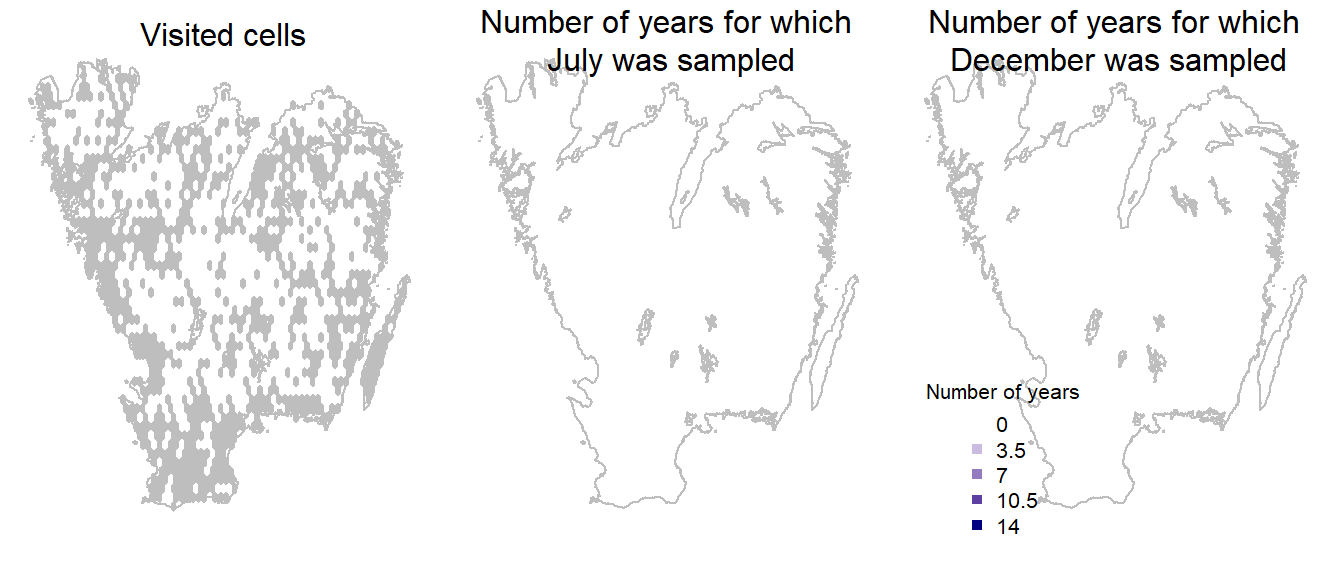
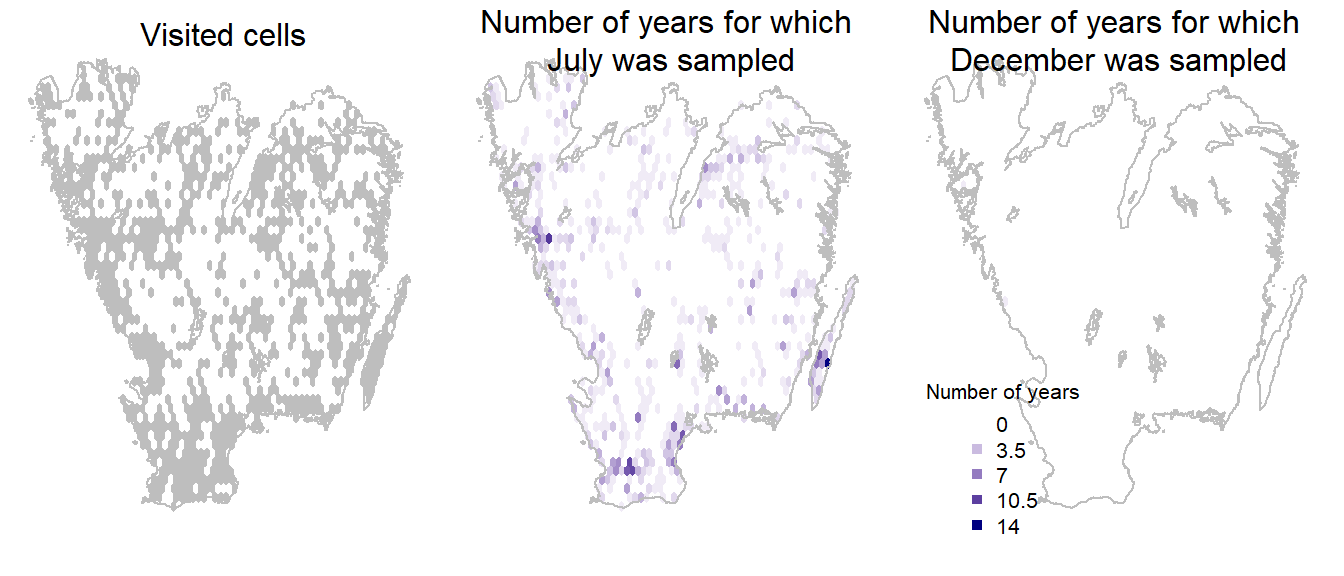
new page

diff --git a/docs/articles/BIRDS.html b/docs/articles/BIRDS.html
@@ -104,7 +104,7 @@
       <h1>Introduction to BIRDS</h1>
                         <h4 class="author">Alejandro Ruete and Debora Arlt</h4>
             
-            <h4 class="date">2019-12-13</h4>
+            <h4 class="date">2019-12-14</h4>
       
       <small class="dont-index">Source: <a href="https://github.com/greensway/BIRDS/blob/master/vignettes/BIRDS.Rmd"><code>vignettes/BIRDS.Rmd</code></a></small>
       <div class="hidden name"><code>BIRDS.Rmd</code></div>
@@ -138,40 +138,41 @@
 <p>We use as an example a data set consisting of 10k species observations of bumblebees (i.e. <em>Bombus</em> spp.) in Götaland (the southern part of Sweden) during 2000-2018. The data set <code>bombusObs</code> is part of this package and its metadata can be found in the data set help page <code><a href="../reference/bombusObs.html">?bombusObs</a></code>.</p>
 <p>You can easily create a grid over a sample area (i.e. <code>gotaland</code>), organize and summarize the data, and export the variables you want to plot:</p>
 <div class="sourceCode" id="cb2"><pre class="sourceCode r"><code class="sourceCode r"><span id="cb2-1"><a href="#cb2-1"></a><span class="kw"><a href="https://rdrr.io/r/base/library.html">library</a></span>(BIRDS)</span>
-<span id="cb2-2"><a href="#cb2-2"></a><span class="co"># Create a grid for your sample area that will be used to summarise the data:</span></span>
-<span id="cb2-3"><a href="#cb2-3"></a>grid &lt;-<span class="st"> </span><span class="kw"><a href="../reference/makeGrid.html">makeGrid</a></span>(gotaland, <span class="dt">gridSize =</span> <span class="dv">10</span>)</span>
-<span id="cb2-4"><a href="#cb2-4"></a><span class="co"># The grid can be easily created in different ways. </span></span>
-<span id="cb2-5"><a href="#cb2-5"></a></span>
-<span id="cb2-6"><a href="#cb2-6"></a><span class="co"># Import the species observation data:</span></span>
-<span id="cb2-7"><a href="#cb2-7"></a>PBD&lt;-bombusObs</span>
-<span id="cb2-8"><a href="#cb2-8"></a><span class="co"># alternatively, you could load a previously downloaded .CSV file </span></span>
-<span id="cb2-9"><a href="#cb2-9"></a><span class="co"># PBD &lt;- read.csv(file="path/to/your/file.csv)</span></span>
-<span id="cb2-10"><a href="#cb2-10"></a></span>
-<span id="cb2-11"><a href="#cb2-11"></a><span class="co"># Convert the data from an observation-based to a visit-based format, adding a </span></span>
-<span id="cb2-12"><a href="#cb2-12"></a><span class="co"># unique identifier for each visit:</span></span>
-<span id="cb2-13"><a href="#cb2-13"></a>OB &lt;-<span class="st"> </span><span class="kw"><a href="../reference/organizeBirds.html">organizeBirds</a></span>(PBD, <span class="dt">sppCol =</span> <span class="st">"scientificName"</span>, <span class="dt">simplifySppName =</span> <span class="ot">TRUE</span>)</span>
-<span id="cb2-14"><a href="#cb2-14"></a></span>
-<span id="cb2-15"><a href="#cb2-15"></a><span class="co"># Summarise the data:</span></span>
-<span id="cb2-16"><a href="#cb2-16"></a>SB &lt;-<span class="st"> </span><span class="kw"><a href="../reference/summarizeBirds.html">summariseBirds</a></span>(OB, <span class="dt">grid=</span>grid)</span>
-<span id="cb2-17"><a href="#cb2-17"></a><span class="co">#&gt; 2689 observations did not overlap with the grid and will be discarded.</span></span>
-<span id="cb2-18"><a href="#cb2-18"></a><span class="co">#&gt; 0.06 % of the visits spill over neighbouring grid cells.</span></span>
-<span id="cb2-19"><a href="#cb2-19"></a><span class="co">#&gt; Registered S3 method overwritten by 'xts':</span></span>
-<span id="cb2-20"><a href="#cb2-20"></a><span class="co">#&gt;   method     from</span></span>
-<span id="cb2-21"><a href="#cb2-21"></a><span class="co">#&gt;   as.zoo.xts zoo</span></span>
-<span id="cb2-22"><a href="#cb2-22"></a></span>
-<span id="cb2-23"><a href="#cb2-23"></a><span class="co"># Look at some summarised variables:</span></span>
-<span id="cb2-24"><a href="#cb2-24"></a><span class="co"># Number of observations</span></span>
-<span id="cb2-25"><a href="#cb2-25"></a>EBnObs &lt;-<span class="st"> </span><span class="kw"><a href="../reference/exportBirds.html">exportBirds</a></span>(SB, <span class="dt">dimension =</span> <span class="st">"temporal"</span>, <span class="dt">timeRes =</span> <span class="st">"yearly"</span>, </span>
-<span id="cb2-26"><a href="#cb2-26"></a>                      <span class="dt">variable =</span> <span class="st">"nObs"</span>, <span class="dt">method =</span> <span class="st">"sum"</span>)</span>
-<span id="cb2-27"><a href="#cb2-27"></a><span class="co"># Number of visits</span></span>
-<span id="cb2-28"><a href="#cb2-28"></a>EBnVis &lt;-<span class="st"> </span><span class="kw"><a href="../reference/exportBirds.html">exportBirds</a></span>(SB, <span class="dt">dimension =</span> <span class="st">"temporal"</span>, <span class="dt">timeRes =</span> <span class="st">"yearly"</span>, </span>
-<span id="cb2-29"><a href="#cb2-29"></a>                      <span class="dt">variable =</span> <span class="st">"nVis"</span>, <span class="dt">method =</span> <span class="st">"sum"</span>)</span>
-<span id="cb2-30"><a href="#cb2-30"></a><span class="co"># The ratio of number of observations over number of visits</span></span>
-<span id="cb2-31"><a href="#cb2-31"></a>relObs&lt;-EBnObs<span class="op">/</span>EBnVis</span>
-<span id="cb2-32"><a href="#cb2-32"></a></span>
-<span id="cb2-33"><a href="#cb2-33"></a><span class="co"># Average species list length (SLL) per year (a double-average, i.e. the mean </span></span>
-<span id="cb2-34"><a href="#cb2-34"></a><span class="co"># over cell values for the median SLL from all visits per year and cell) </span></span>
-<span id="cb2-35"><a href="#cb2-35"></a>EBavgSll &lt;-<span class="st"> </span><span class="kw"><a href="https://rdrr.io/r/base/colSums.html">colMeans</a></span>(SB<span class="op">$</span>spatioTemporal[,,<span class="st">"Yearly"</span>,<span class="st">"avgSll"</span>], <span class="dt">na.rm =</span> <span class="ot">TRUE</span>)</span></code></pre></div>
+<span id="cb2-2"><a href="#cb2-2"></a><span class="kw"><a href="https://rdrr.io/r/base/library.html">library</a></span>(sp)</span>
+<span id="cb2-3"><a href="#cb2-3"></a><span class="co"># Create a grid for your sample area that will be used to summarise the data:</span></span>
+<span id="cb2-4"><a href="#cb2-4"></a>grid &lt;-<span class="st"> </span><span class="kw"><a href="../reference/makeGrid.html">makeGrid</a></span>(gotaland, <span class="dt">gridSize =</span> <span class="dv">10</span>)</span>
+<span id="cb2-5"><a href="#cb2-5"></a><span class="co"># The grid can be easily created in different ways. </span></span>
+<span id="cb2-6"><a href="#cb2-6"></a></span>
+<span id="cb2-7"><a href="#cb2-7"></a><span class="co"># Import the species observation data:</span></span>
+<span id="cb2-8"><a href="#cb2-8"></a>PBD&lt;-bombusObs</span>
+<span id="cb2-9"><a href="#cb2-9"></a><span class="co"># alternatively, you could load a previously downloaded .CSV file </span></span>
+<span id="cb2-10"><a href="#cb2-10"></a><span class="co"># PBD &lt;- read.csv(file="path/to/your/file.csv)</span></span>
+<span id="cb2-11"><a href="#cb2-11"></a></span>
+<span id="cb2-12"><a href="#cb2-12"></a><span class="co"># Convert the data from an observation-based to a visit-based format, adding a </span></span>
+<span id="cb2-13"><a href="#cb2-13"></a><span class="co"># unique identifier for each visit:</span></span>
+<span id="cb2-14"><a href="#cb2-14"></a>OB &lt;-<span class="st"> </span><span class="kw"><a href="../reference/organizeBirds.html">organizeBirds</a></span>(PBD, <span class="dt">sppCol =</span> <span class="st">"scientificName"</span>, <span class="dt">simplifySppName =</span> <span class="ot">TRUE</span>)</span>
+<span id="cb2-15"><a href="#cb2-15"></a></span>
+<span id="cb2-16"><a href="#cb2-16"></a><span class="co"># Summarise the data:</span></span>
+<span id="cb2-17"><a href="#cb2-17"></a>SB &lt;-<span class="st"> </span><span class="kw"><a href="../reference/summarizeBirds.html">summariseBirds</a></span>(OB, <span class="dt">grid=</span>grid)</span>
+<span id="cb2-18"><a href="#cb2-18"></a><span class="co">#&gt; 2689 observations did not overlap with the grid and will be discarded.</span></span>
+<span id="cb2-19"><a href="#cb2-19"></a><span class="co">#&gt; 0.06 % of the visits spill over neighbouring grid cells.</span></span>
+<span id="cb2-20"><a href="#cb2-20"></a><span class="co">#&gt; Registered S3 method overwritten by 'xts':</span></span>
+<span id="cb2-21"><a href="#cb2-21"></a><span class="co">#&gt;   method     from</span></span>
+<span id="cb2-22"><a href="#cb2-22"></a><span class="co">#&gt;   as.zoo.xts zoo</span></span>
+<span id="cb2-23"><a href="#cb2-23"></a></span>
+<span id="cb2-24"><a href="#cb2-24"></a><span class="co"># Look at some summarised variables:</span></span>
+<span id="cb2-25"><a href="#cb2-25"></a><span class="co"># Number of observations</span></span>
+<span id="cb2-26"><a href="#cb2-26"></a>EBnObs &lt;-<span class="st"> </span><span class="kw"><a href="../reference/exportBirds.html">exportBirds</a></span>(SB, <span class="dt">dimension =</span> <span class="st">"temporal"</span>, <span class="dt">timeRes =</span> <span class="st">"yearly"</span>, </span>
+<span id="cb2-27"><a href="#cb2-27"></a>                      <span class="dt">variable =</span> <span class="st">"nObs"</span>, <span class="dt">method =</span> <span class="st">"sum"</span>)</span>
+<span id="cb2-28"><a href="#cb2-28"></a><span class="co"># Number of visits</span></span>
+<span id="cb2-29"><a href="#cb2-29"></a>EBnVis &lt;-<span class="st"> </span><span class="kw"><a href="../reference/exportBirds.html">exportBirds</a></span>(SB, <span class="dt">dimension =</span> <span class="st">"temporal"</span>, <span class="dt">timeRes =</span> <span class="st">"yearly"</span>, </span>
+<span id="cb2-30"><a href="#cb2-30"></a>                      <span class="dt">variable =</span> <span class="st">"nVis"</span>, <span class="dt">method =</span> <span class="st">"sum"</span>)</span>
+<span id="cb2-31"><a href="#cb2-31"></a><span class="co"># The ratio of number of observations over number of visits</span></span>
+<span id="cb2-32"><a href="#cb2-32"></a>relObs&lt;-EBnObs<span class="op">/</span>EBnVis</span>
+<span id="cb2-33"><a href="#cb2-33"></a></span>
+<span id="cb2-34"><a href="#cb2-34"></a><span class="co"># Average species list length (SLL) per year (a double-average, i.e. the mean </span></span>
+<span id="cb2-35"><a href="#cb2-35"></a><span class="co"># over cell values for the median SLL from all visits per year and cell) </span></span>
+<span id="cb2-36"><a href="#cb2-36"></a>EBavgSll &lt;-<span class="st"> </span><span class="kw"><a href="https://rdrr.io/r/base/colSums.html">colMeans</a></span>(SB<span class="op">$</span>spatioTemporal[,,<span class="st">"Yearly"</span>,<span class="st">"avgSll"</span>], <span class="dt">na.rm =</span> <span class="ot">TRUE</span>)</span></code></pre></div>
 <p>Then, with functions you already know, plot this into a time series.</p>
 <div class="sourceCode" id="cb3"><pre class="sourceCode r"><code class="sourceCode r"><span id="cb3-1"><a href="#cb3-1"></a><span class="kw"><a href="https://rdrr.io/r/graphics/par.html">par</a></span>(<span class="dt">mar=</span><span class="kw"><a href="https://rdrr.io/r/base/c.html">c</a></span>(<span class="dv">4</span>,<span class="dv">4</span>,<span class="dv">1</span>,<span class="dv">6</span>), <span class="dt">las=</span><span class="dv">1</span>)</span>
 <span id="cb3-2"><a href="#cb3-2"></a><span class="kw"><a href="https://rdrr.io/r/graphics/plot.html">plot</a></span>(<span class="kw"><a href="https://rdrr.io/r/stats/time.html">time</a></span>(EBnObs), EBnObs, <span class="dt">type =</span> <span class="st">"l"</span>, <span class="dt">lwd =</span> <span class="dv">3</span>, <span class="dt">xlab =</span> <span class="st">"Year"</span>, <span class="dt">ylab =</span> <span class="st">"Number"</span>, </span>
@@ -197,29 +198,29 @@ Time series for <em>Bombus</em> spp. dataset.
 <p>Although we downloaded the data in April 2019, we know that the latest reports for 2018 were not yet uploaded and we see that in the figure.<br>
 We can see that over the years there are on average more observations, more visits and also more species reported for each visit. While it looks like as sampling effort has increased we can also see that there are on average fewer observations per visit. This suggests that the sampling effort per visit has actually decreased. There seem to be many more visits reported in later years driving also an increase in number of observations, but many visits hold only few observations. There seem to be also few visits with long species lists driving the increase of average SLL.</p>
 <p>Then, we can summarize spatial data in some maps, to review, for example, Where do we have visits at all?, or How often are visits performed in July vs December?</p>
-<div class="sourceCode" id="cb4"><pre class="sourceCode r"><code class="sourceCode r"><span id="cb4-1"><a href="#cb4-1"></a><span class="kw"><a href="https://rdrr.io/r/base/library.html">library</a></span>(sp)</span>
-<span id="cb4-2"><a href="#cb4-2"></a>wNonEmpty&lt;-<span class="kw"><a href="https://rdrr.io/r/base/unname.html">unname</a></span>( <span class="kw"><a href="https://rdrr.io/r/base/which.html">which</a></span>( <span class="kw"><a href="https://rdrr.io/r/base/unlist.html">unlist</a></span>(<span class="kw"><a href="https://rdrr.io/r/base/lapply.html">lapply</a></span>(SB<span class="op">$</span>overlaid, nrow)) <span class="op">!=</span><span class="st"> </span><span class="dv">0</span>) )</span>
-<span id="cb4-3"><a href="#cb4-3"></a>EB &lt;-<span class="st"> </span><span class="kw"><a href="../reference/exportBirds.html">exportBirds</a></span>(SB, <span class="st">"Spatial"</span>, <span class="st">"Month"</span>, <span class="st">"nYears"</span>, <span class="st">"sum"</span>)</span>
-<span id="cb4-4"><a href="#cb4-4"></a><span class="co"># because the dimension is "spatial", the result is a 'SpatialPolygonDataFrame'</span></span>
-<span id="cb4-5"><a href="#cb4-5"></a></span>
-<span id="cb4-6"><a href="#cb4-6"></a>palBW &lt;-<span class="st"> </span>leaflet<span class="op">::</span><span class="kw"><a href="https://rdrr.io/pkg/leaflet/man/colorNumeric.html">colorNumeric</a></span>(<span class="kw"><a href="https://rdrr.io/r/base/c.html">c</a></span>(<span class="st">"white"</span>, <span class="st">"navyblue"</span>), </span>
-<span id="cb4-7"><a href="#cb4-7"></a>                               <span class="kw"><a href="https://rdrr.io/r/base/c.html">c</a></span>(<span class="dv">0</span>, <span class="kw"><a href="https://rdrr.io/r/base/Extremes.html">max</a></span>(EB<span class="op">@</span>data, <span class="dt">na.rm =</span> <span class="ot">TRUE</span>)), </span>
-<span id="cb4-8"><a href="#cb4-8"></a>                               <span class="dt">na.color =</span> <span class="st">"transparent"</span>)</span>
-<span id="cb4-9"><a href="#cb4-9"></a><span class="kw"><a href="https://rdrr.io/r/graphics/par.html">par</a></span>(<span class="dt">mfrow=</span><span class="kw"><a href="https://rdrr.io/r/base/c.html">c</a></span>(<span class="dv">1</span>,<span class="dv">3</span>), <span class="dt">mar=</span><span class="kw"><a href="https://rdrr.io/r/base/c.html">c</a></span>(<span class="dv">1</span>,<span class="dv">1</span>,<span class="dv">1</span>,<span class="dv">1</span>))</span>
-<span id="cb4-10"><a href="#cb4-10"></a><span class="kw"><a href="https://rdrr.io/r/graphics/plot.html">plot</a></span>(SB<span class="op">$</span>spatial[wNonEmpty,], <span class="dt">col=</span><span class="st">"grey"</span>, <span class="dt">border =</span> <span class="ot">NA</span>)</span>
-<span id="cb4-11"><a href="#cb4-11"></a><span class="kw"><a href="https://rdrr.io/r/graphics/plot.html">plot</a></span>(gotaland, <span class="dt">col=</span><span class="ot">NA</span>, <span class="dt">border =</span> <span class="st">"grey"</span>, <span class="dt">lwd=</span><span class="dv">1</span>, <span class="dt">add=</span><span class="ot">TRUE</span>)</span>
-<span id="cb4-12"><a href="#cb4-12"></a><span class="kw"><a href="https://rdrr.io/r/graphics/mtext.html">mtext</a></span>(<span class="st">"Visited cells"</span>, <span class="dv">3</span>, <span class="dt">line=</span><span class="op">-</span><span class="dv">1</span>)</span>
-<span id="cb4-13"><a href="#cb4-13"></a></span>
-<span id="cb4-14"><a href="#cb4-14"></a><span class="kw"><a href="https://rdrr.io/r/graphics/plot.html">plot</a></span>(EB, <span class="dt">col=</span><span class="kw">palBW</span>(EB<span class="op">@</span>data<span class="op">$</span>Jul), <span class="dt">border =</span> <span class="ot">NA</span>)</span>
-<span id="cb4-15"><a href="#cb4-15"></a><span class="kw"><a href="https://rdrr.io/r/graphics/plot.html">plot</a></span>(gotaland, <span class="dt">col=</span><span class="ot">NA</span>, <span class="dt">border =</span> <span class="st">"grey"</span>, <span class="dt">lwd=</span><span class="dv">1</span>, <span class="dt">add=</span><span class="ot">TRUE</span>)</span>
-<span id="cb4-16"><a href="#cb4-16"></a><span class="kw"><a href="https://rdrr.io/r/graphics/mtext.html">mtext</a></span>(<span class="st">"Number of years for which </span><span class="ch">\n</span><span class="st">July was sampled"</span>, <span class="dv">3</span>, <span class="dt">line=</span><span class="op">-</span><span class="dv">2</span>)</span>
-<span id="cb4-17"><a href="#cb4-17"></a></span>
-<span id="cb4-18"><a href="#cb4-18"></a><span class="kw"><a href="https://rdrr.io/r/graphics/plot.html">plot</a></span>(EB, <span class="dt">col=</span><span class="kw">palBW</span>(EB<span class="op">@</span>data<span class="op">$</span>Dec), <span class="dt">border =</span> <span class="ot">NA</span>)</span>
-<span id="cb4-19"><a href="#cb4-19"></a><span class="kw"><a href="https://rdrr.io/r/graphics/plot.html">plot</a></span>(gotaland, <span class="dt">col=</span><span class="ot">NA</span>, <span class="dt">border =</span> <span class="st">"grey"</span>, <span class="dt">lwd=</span><span class="dv">1</span>, <span class="dt">add=</span><span class="ot">TRUE</span>)</span>
-<span id="cb4-20"><a href="#cb4-20"></a><span class="kw"><a href="https://rdrr.io/r/graphics/mtext.html">mtext</a></span>(<span class="st">"Number of years for which </span><span class="ch">\n</span><span class="st">December was sampled"</span>, <span class="dv">3</span>, <span class="dt">line=</span><span class="op">-</span><span class="dv">2</span>)</span>
-<span id="cb4-21"><a href="#cb4-21"></a><span class="kw"><a href="https://rdrr.io/r/graphics/legend.html">legend</a></span>(<span class="st">"bottomleft"</span>, <span class="dt">legend=</span><span class="kw"><a href="https://rdrr.io/r/base/seq.html">seq</a></span>(<span class="dv">0</span>, <span class="kw"><a href="https://rdrr.io/r/base/Extremes.html">max</a></span>(EB<span class="op">@</span>data, <span class="dt">na.rm =</span> <span class="ot">TRUE</span>), <span class="dt">length.out =</span> <span class="dv">5</span>),</span>
-<span id="cb4-22"><a href="#cb4-22"></a>      <span class="dt">col =</span> <span class="kw">palBW</span>(<span class="kw"><a href="https://rdrr.io/r/base/seq.html">seq</a></span>(<span class="dv">0</span>, <span class="kw"><a href="https://rdrr.io/r/base/Extremes.html">max</a></span>(EB<span class="op">@</span>data, <span class="dt">na.rm =</span> <span class="ot">TRUE</span>), <span class="dt">length.out =</span> <span class="dv">5</span>)),</span>
-<span id="cb4-23"><a href="#cb4-23"></a>      <span class="dt">title =</span> <span class="st">"Number of years"</span>, <span class="dt">pch =</span> <span class="dv">15</span>, <span class="dt">bty=</span><span class="st">"n"</span>)</span></code></pre></div>
+<div class="sourceCode" id="cb4"><pre class="sourceCode r"><code class="sourceCode r"><span id="cb4-1"><a href="#cb4-1"></a>wNonEmpty&lt;-<span class="kw"><a href="https://rdrr.io/r/base/unname.html">unname</a></span>( <span class="kw"><a href="https://rdrr.io/r/base/which.html">which</a></span>( <span class="kw"><a href="https://rdrr.io/r/base/unlist.html">unlist</a></span>(<span class="kw"><a href="https://rdrr.io/r/base/lapply.html">lapply</a></span>(SB<span class="op">$</span>overlaid, nrow)) <span class="op">!=</span><span class="st"> </span><span class="dv">0</span>) )</span>
+<span id="cb4-2"><a href="#cb4-2"></a>EB &lt;-<span class="st"> </span><span class="kw"><a href="../reference/exportBirds.html">exportBirds</a></span>(SB, <span class="st">"Spatial"</span>, <span class="st">"Month"</span>, <span class="st">"nYears"</span>, <span class="st">"sum"</span>)</span>
+<span id="cb4-3"><a href="#cb4-3"></a><span class="co"># because the dimension is "spatial", the result is a 'SpatialPolygonDataFrame'</span></span>
+<span id="cb4-4"><a href="#cb4-4"></a></span>
+<span id="cb4-5"><a href="#cb4-5"></a>palBW &lt;-<span class="st"> </span>leaflet<span class="op">::</span><span class="kw"><a href="https://rdrr.io/pkg/leaflet/man/colorNumeric.html">colorNumeric</a></span>(<span class="kw"><a href="https://rdrr.io/r/base/c.html">c</a></span>(<span class="st">"white"</span>, <span class="st">"navyblue"</span>), </span>
+<span id="cb4-6"><a href="#cb4-6"></a>                               <span class="kw"><a href="https://rdrr.io/r/base/c.html">c</a></span>(<span class="dv">0</span>, <span class="kw"><a href="https://rdrr.io/r/base/Extremes.html">max</a></span>(EB<span class="op">@</span>data, <span class="dt">na.rm =</span> <span class="ot">TRUE</span>)), </span>
+<span id="cb4-7"><a href="#cb4-7"></a>                               <span class="dt">na.color =</span> <span class="st">"transparent"</span>)</span>
+<span id="cb4-8"><a href="#cb4-8"></a><span class="kw"><a href="https://rdrr.io/r/graphics/par.html">par</a></span>(<span class="dt">mfrow=</span><span class="kw"><a href="https://rdrr.io/r/base/c.html">c</a></span>(<span class="dv">1</span>,<span class="dv">3</span>), <span class="dt">mar=</span><span class="kw"><a href="https://rdrr.io/r/base/c.html">c</a></span>(<span class="dv">1</span>,<span class="dv">1</span>,<span class="dv">1</span>,<span class="dv">1</span>))</span>
+<span id="cb4-9"><a href="#cb4-9"></a><span class="kw"><a href="https://rdrr.io/r/graphics/plot.html">plot</a></span>(SB<span class="op">$</span>spatial[wNonEmpty,], <span class="dt">col=</span><span class="st">"grey"</span>, <span class="dt">border =</span> <span class="ot">NA</span>)</span>
+<span id="cb4-10"><a href="#cb4-10"></a><span class="kw"><a href="https://rdrr.io/r/graphics/plot.html">plot</a></span>(gotaland, <span class="dt">col=</span><span class="ot">NA</span>, <span class="dt">border =</span> <span class="st">"grey"</span>, <span class="dt">lwd=</span><span class="dv">1</span>, <span class="dt">add=</span><span class="ot">TRUE</span>)</span>
+<span id="cb4-11"><a href="#cb4-11"></a><span class="kw"><a href="https://rdrr.io/r/graphics/mtext.html">mtext</a></span>(<span class="st">"Visited cells"</span>, <span class="dv">3</span>, <span class="dt">line=</span><span class="op">-</span><span class="dv">1</span>)</span>
+<span id="cb4-12"><a href="#cb4-12"></a></span>
+<span id="cb4-13"><a href="#cb4-13"></a><span class="kw"><a href="https://rdrr.io/r/graphics/plot.html">plot</a></span>(EB, <span class="dt">col=</span><span class="kw">palBW</span>(EB<span class="op">@</span>data<span class="op">$</span>Jul), <span class="dt">border =</span> <span class="ot">NA</span>)</span>
+<span id="cb4-14"><a href="#cb4-14"></a><span class="kw"><a href="https://rdrr.io/r/graphics/plot.html">plot</a></span>(gotaland, <span class="dt">col=</span><span class="ot">NA</span>, <span class="dt">border =</span> <span class="st">"grey"</span>, <span class="dt">lwd=</span><span class="dv">1</span>, <span class="dt">add=</span><span class="ot">TRUE</span>)</span>
+<span id="cb4-15"><a href="#cb4-15"></a><span class="kw"><a href="https://rdrr.io/r/graphics/mtext.html">mtext</a></span>(<span class="st">"Number of years for which </span><span class="ch">\n</span><span class="st">July was sampled"</span>, <span class="dv">3</span>, <span class="dt">line=</span><span class="op">-</span><span class="dv">2</span>)</span>
+<span id="cb4-16"><a href="#cb4-16"></a></span>
+<span id="cb4-17"><a href="#cb4-17"></a><span class="kw"><a href="https://rdrr.io/r/graphics/plot.html">plot</a></span>(EB, <span class="dt">col=</span><span class="kw">palBW</span>(EB<span class="op">@</span>data<span class="op">$</span>Dec), <span class="dt">border =</span> <span class="ot">NA</span>)</span>
+<span id="cb4-18"><a href="#cb4-18"></a><span class="kw"><a href="https://rdrr.io/r/graphics/plot.html">plot</a></span>(gotaland, <span class="dt">col=</span><span class="ot">NA</span>, <span class="dt">border =</span> <span class="st">"grey"</span>, <span class="dt">lwd=</span><span class="dv">1</span>, <span class="dt">add=</span><span class="ot">TRUE</span>)</span>
+<span id="cb4-19"><a href="#cb4-19"></a><span class="kw"><a href="https://rdrr.io/r/graphics/mtext.html">mtext</a></span>(<span class="st">"Number of years for which </span><span class="ch">\n</span><span class="st">December was sampled"</span>, <span class="dv">3</span>, <span class="dt">line=</span><span class="op">-</span><span class="dv">2</span>)</span>
+<span id="cb4-20"><a href="#cb4-20"></a><span class="kw"><a href="https://rdrr.io/r/graphics/legend.html">legend</a></span>(<span class="st">"bottomleft"</span>, </span>
+<span id="cb4-21"><a href="#cb4-21"></a>       <span class="dt">legend=</span><span class="kw"><a href="https://rdrr.io/r/base/seq.html">seq</a></span>(<span class="dv">0</span>, <span class="kw"><a href="https://rdrr.io/r/base/Extremes.html">max</a></span>(EB<span class="op">@</span>data, <span class="dt">na.rm =</span> <span class="ot">TRUE</span>), <span class="dt">length.out =</span> <span class="dv">5</span>),</span>
+<span id="cb4-22"><a href="#cb4-22"></a>       <span class="dt">col =</span> <span class="kw">palBW</span>(<span class="kw"><a href="https://rdrr.io/r/base/seq.html">seq</a></span>(<span class="dv">0</span>, <span class="kw"><a href="https://rdrr.io/r/base/Extremes.html">max</a></span>(EB<span class="op">@</span>data, <span class="dt">na.rm =</span> <span class="ot">TRUE</span>), <span class="dt">length.out =</span> <span class="dv">5</span>)),</span>
+<span id="cb4-23"><a href="#cb4-23"></a>       <span class="dt">title =</span> <span class="st">"Number of years"</span>, <span class="dt">pch =</span> <span class="dv">15</span>, <span class="dt">bty=</span><span class="st">"n"</span>)</span></code></pre></div>
 <p><img src="BIRDS_files/figure-html/figure%202-1.png" width="672"></p>
 <p>We could also map the ignorance scores based on the either the number of observations or visits using the function <code><a href="../reference/exposeIgnorance.html">exposeIgnorance()</a></code>. Ignorance scores are a proxy for the lack of sampling effort, computed by making the number of observations relative to a reference number of observations that is considered to be enough to reduce the ignorance score by half (henceforth the Half-ignorance approach). The algorithm behind the Ignorance Score is designed for comparison of bias and gaps in primary biodiversity data across taxonomy, time and space Read more here: Ruete 2015 Biodiv Data J 3:e5361, <a href="doi:10.3897/BDJ.3.e5361" class="uri">doi:10.3897/BDJ.3.e5361</a></p>
 <div class="sourceCode" id="cb5"><pre class="sourceCode r"><code class="sourceCode r"><span id="cb5-1"><a href="#cb5-1"></a><span class="kw"><a href="https://rdrr.io/r/graphics/par.html">par</a></span>(<span class="dt">mfrow=</span><span class="kw"><a href="https://rdrr.io/r/base/c.html">c</a></span>(<span class="dv">1</span>,<span class="dv">2</span>), <span class="dt">mar=</span><span class="kw"><a href="https://rdrr.io/r/base/c.html">c</a></span>(<span class="dv">1</span>,<span class="dv">1</span>,<span class="dv">1</span>,<span class="dv">1</span>))</span>

diff --git a/docs/reference/organizeDate.html b/docs/reference/organizeDate.html
@@ -179,11 +179,11 @@ the first as year, the second as month and the third as day.</p></td>
     <h2 class="hasAnchor" id="examples"><a class="anchor" href="#examples"></a>Examples</h2>
     <pre class="examples"><div class='input'><span class='no'>ymd</span><span class='kw'>&lt;-</span><span class='fu'><a href='https://rdrr.io/r/base/as.Date.html'>as.Date</a></span>(<span class='fu'><a href='https://rdrr.io/r/base/Sys.time.html'>Sys.Date</a></span>())+<span class='fl'>1</span>:<span class='fl'>5</span>
 <span class='fu'>organizeDate</span>(<span class='fu'><a href='https://rdrr.io/r/base/as.data.frame.html'>as.data.frame</a></span>(<span class='no'>ymd</span>), <span class='st'>"ymd"</span>)</div><div class='output co'>#&gt;          ymd year month day
-#&gt; 1 2019-12-14 2019    12  14
-#&gt; 2 2019-12-15 2019    12  15
-#&gt; 3 2019-12-16 2019    12  16
-#&gt; 4 2019-12-17 2019    12  17
-#&gt; 5 2019-12-18 2019    12  18</div></pre>
+#&gt; 1 2019-12-15 2019    12  15
+#&gt; 2 2019-12-16 2019    12  16
+#&gt; 3 2019-12-17 2019    12  17
+#&gt; 4 2019-12-18 2019    12  18
+#&gt; 5 2019-12-19 2019    12  19</div></pre>
   </div>
   <div class="col-md-3 hidden-xs hidden-sm" id="sidebar">
     <h2>Contents</h2>

diff --git a/docs/articles/working_with_xts_timeseries.html b/docs/articles/working_with_xts_timeseries.html
@@ -104,7 +104,7 @@
       <h1>Working with xts time series</h1>
                         <h4 class="author">Alejandro Ruete</h4>
             
-            <h4 class="date">2019-12-13</h4>
+            <h4 class="date">2019-12-14</h4>
       
       <small class="dont-index">Source: <a href="https://github.com/greensway/BIRDS/blob/master/vignettes/working_with_xts_timeseries.Rmd"><code>vignettes/working_with_xts_timeseries.Rmd</code></a></small>
       <div class="hidden name"><code>working_with_xts_timeseries.Rmd</code></div>

diff --git a/docs/articles/technical_details.html b/docs/articles/technical_details.html
@@ -104,7 +104,7 @@
       <h1>BIRDS technical details</h1>
                         <h4 class="author">Alejandro Ruete and Debora Arlt</h4>
             
-            <h4 class="date">2019-12-13</h4>
+            <h4 class="date">2019-12-14</h4>
       
       <small class="dont-index">Source: <a href="https://github.com/greensway/BIRDS/blob/master/vignettes/technical_details.Rmd"><code>vignettes/technical_details.Rmd</code></a></small>
       <div class="hidden name"><code>technical_details.Rmd</code></div>
